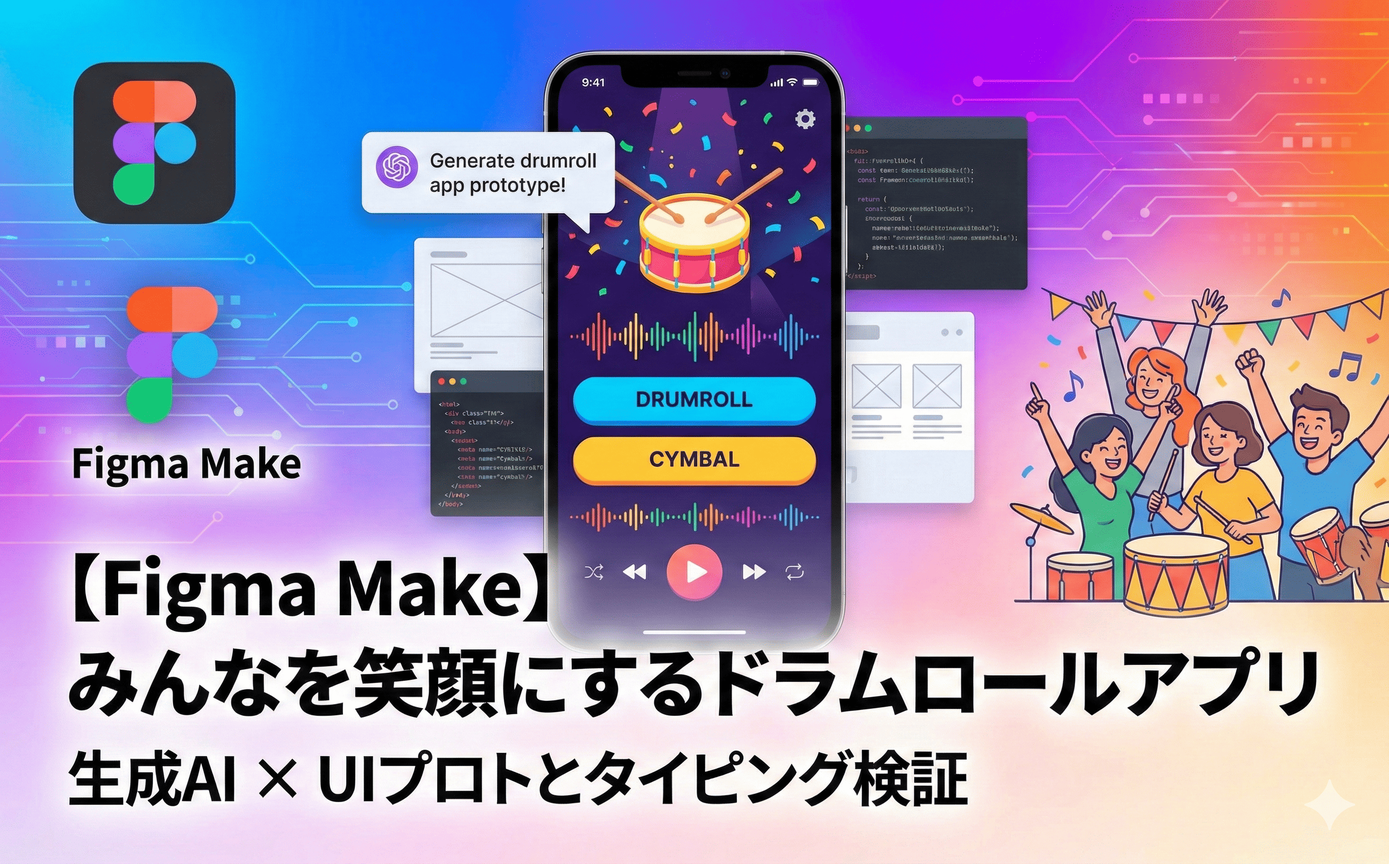
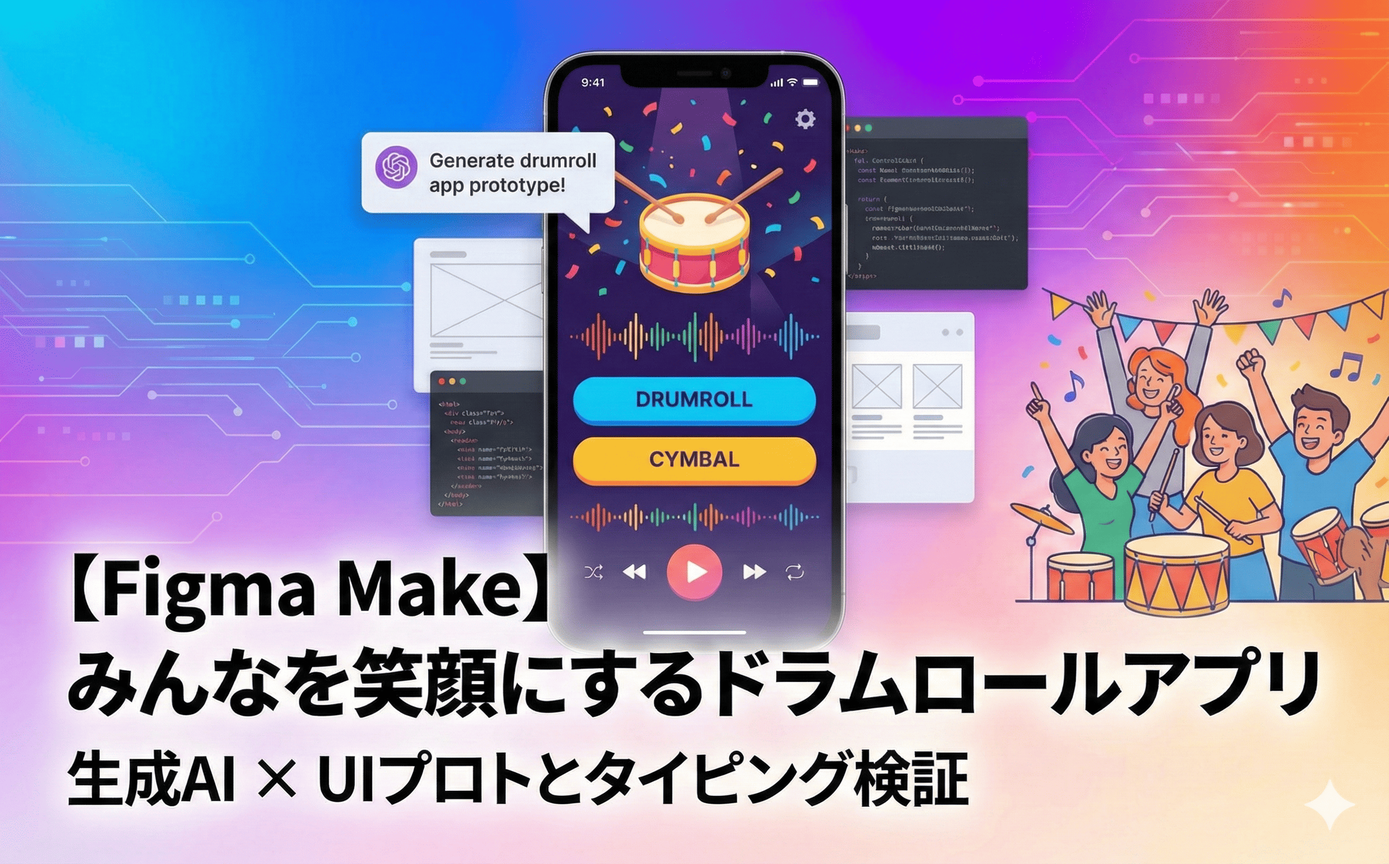
fix

diff --git a/articles/figma-make-drumroll-app-prototyping-validation.md b/articles/figma-make-drumroll-app-prototyping-validation.md
@@ -8,7 +8,7 @@ published: true # 公開する場合はtrueに変更
 
 # みんなを笑顔にするドラムロールアプリに必要な機能の検証
 
-<!-- ![みんなを笑顔にするドラムロールアプリに必要な機能の検証](/images/figma-make-drumroll-app-prototyping-validation/cover.png) -->
+![みんなを笑顔にするドラムロールアプリに必要な機能の検証](/images/figma-make-drumroll-app-prototyping-validation/cover.png)
 
 先日、Figma Makeを使ってドラムロールアプリを開発しました。
 この記事では、生成AI時代のプロトタイピングがどれだけユーザー体験を良くするか、その経験を通じて得た知見を紹介しています。
